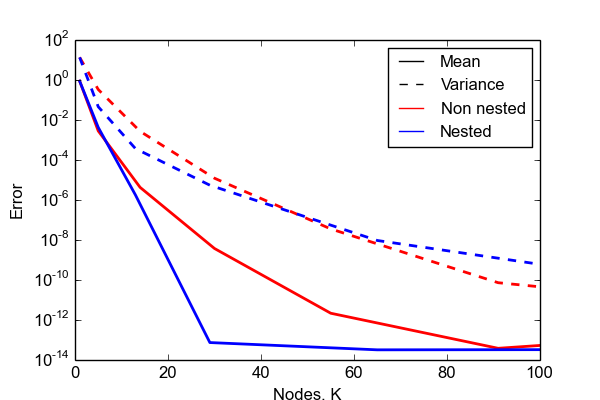
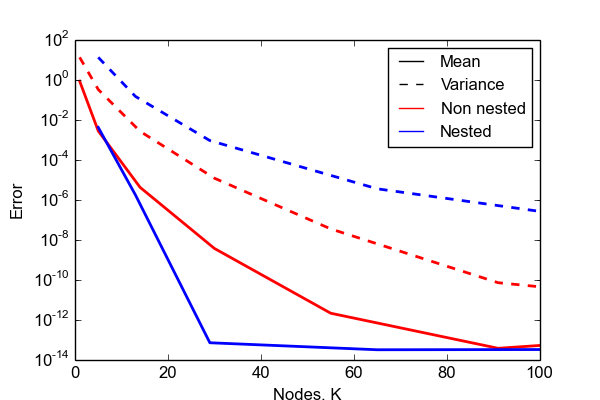
plot fixed

diff --git a/figures/convergence_L.py b/figures/convergence_L.py
@@ -55,92 +55,16 @@ for n in xrange(0,N+1):
 pl.plot(K,errorCP,"r-",linewidth=2)
 pl.plot(K, varCP,"r--",linewidth=2)
 
-"""
-
-N = 5
-
-errorCP = []
-varCP = []
-K = []
-for n in xrange(1,N+1):
-    P = cp.orth_ttr(n, dist)
-    nodes, weights = cp.generate_quadrature(n, dist, rule="E")
-    K.append(len(nodes[0]))
-    i1,i2 = np.mgrid[:len(weights), :Nt]
-    solves = u(T[i2],nodes[0][i1],nodes[1][i1])
-
-    U_hat = cp.fit_quadrature(P, nodes, weights, solves)
-    errorCP.append(dt*np.sum(np.abs(E_analytical(T) - cp.E(U_hat,dist))))
-    varCP.append(dt*np.sum(np.abs(V_analytical(T) - cp.Var(U_hat,dist))))
-
-pl.plot(K,errorCP,"b-",linewidth=2)
-pl.plot(K, varCP,"b--",linewidth=2)
-
 
 N = 4
 errorCP = []
 varCP = []
 K = []
-for n in xrange(1,N+1):
-    P = cp.orth_ttr(n, dist)
-    nodes, weights = cp.generate_quadrature(n+1, dist, rule="E")
-    K.append(len(nodes[0]))
-    i1,i2 = np.mgrid[:len(weights), :Nt]
-    solves = u(T[i2],nodes[0][i1],nodes[1][i1])
-
-    U_hat = cp.fit_quadrature(P, nodes, weights, solves)
-    errorCP.append(dt*np.sum(np.abs(E_analytical(T) - cp.E(U_hat,dist))))
-    varCP.append(dt*np.sum(np.abs(V_analytical(T) - cp.Var(U_hat,dist))))
-    
-pl.plot(K,errorCP,"g-",linewidth=2)
-pl.plot(K, varCP,"g--",linewidth=2)
-#pl.ylim(10**-18, 10**2)
-"""
-
-
-#pl.xlabel("Nodes, K")
-#pl.ylabel("Error")#
-#pl.yscale('log')
-#pl.xlim([5,35])
-#pl.ylim([10**-16,2*10**3])
-
-#pl.title("Error in expectation value and variance ")
-#pl.legend(["E, $L=M-1$","Var, $L=M-1$","Exp, $L=M$","Var,  $L=M$","E, $L=M+1$","Var,  $L=M+1$"],loc=3)
-#pl.savefig("convergence_2D_L.png")
-
-
-
-
-
-
-
-
-
-
-
-
-
-
-
-
-#pl.figure(2)
-#pl.plot(-1,1, "r-")
-#pl.plot(-1,1, "r--")
-#pl.plot(-1,1, "r")
-#pl.plot(-1,1, "b")
-#pl.plot(-1,1, "g")
-#pl.legend(["Mean","Variance", "$L=M-2$","$L=M-1$","$L=M$"],loc=3,prop={"size" :12})
-
-#pl.rc("figure", figsize=[6,4])
-
-
-N = 7
-errorCP = []
-varCP = []
-K = []
+M = [0,1,2,3,4,5]
+k_ = [1,2,3,5,6,7]
 for n in xrange(0,N+1):
-    P = cp.orth_ttr(n, dist)
-    nodes, weights = cp.generate_quadrature(n, dist, rule="C",sparse=True,growth=True)
+    P = cp.orth_ttr(M[n], dist)
+    nodes, weights = cp.generate_quadrature(n+1, dist, rule="C",sparse=True,growth=True)
     K.append(len(nodes[0]))
     i1,i2 = np.mgrid[:len(weights), :Nt]
     solves = u(T[i2],nodes[0][i1],nodes[1][i1])
@@ -152,45 +76,6 @@ for n in xrange(0,N+1):
 pl.plot(K,errorCP,"b-", linewidth=2)
 pl.plot(K, varCP,"b--",linewidth=2)
 
-"""
-N = 5
-errorCP = []
-varCP = []
-K = []
-for n in xrange(2,N+1):
-    P = cp.orth_ttr(n, dist)
-    nodes, weights = cp.generate_quadrature(n-1, dist, rule="E",sparse=True)
-    K.append(len(nodes[0]))
-    i1,i2 = np.mgrid[:len(weights), :Nt]
-    solves = u(T[i2],nodes[0][i1],nodes[1][i1])
-
-    U_hat = cp.fit_quadrature(P, nodes, weights, solves)
-    errorCP.append(dt*np.sum(np.abs(E_analytical(T) - cp.E(U_hat,dist))))
-    varCP.append(dt*np.sum(np.abs(V_analytical(T) - cp.Var(U_hat,dist))))
-    
-pl.plot(K,errorCP,"b-",linewidth=2)
-pl.plot(K, varCP,"b--",linewidth=2)
-
-
-N = 4
-errorCP = []
-varCP = []
-K = []
-for n in xrange(2,N+1):
-    P = cp.orth_ttr(n, dist)
-    nodes, weights = cp.generate_quadrature(n, dist, rule="E",sparse=True)
-    K.append(len(nodes[0]))
-    i1,i2 = np.mgrid[:len(weights), :Nt]
-    solves = u(T[i2],nodes[0][i1],nodes[1][i1])
-
-    U_hat = cp.fit_quadrature(P, nodes, weights, solves)
-    errorCP.append(dt*np.sum(np.abs(E_analytical(T) - cp.E(U_hat,dist))))
-    varCP.append(dt*np.sum(np.abs(V_analytical(T) - cp.Var(U_hat,dist))))
-    
-pl.plot(K,errorCP,"g-",linewidth=2)
-pl.plot(K, varCP,"g--",linewidth=2)
-"""
-
 
 pl.xlabel("Nodes, K")
 pl.ylabel("Error")
@@ -200,6 +85,6 @@ pl.xlim([0,100])
 
 #Zpl.title("Error in expectation value and variance, sparse ")
 #pl.legend(["E, $L=M-1$","Var, $L=M-1$","E, $L=M$","Var, $L=M$"],loc=2)
-#pl.savefig("convergence_2D_L_sparse.png")
+pl.savefig("convergence_2D_L_sparse.png")
 
 pl.show()
